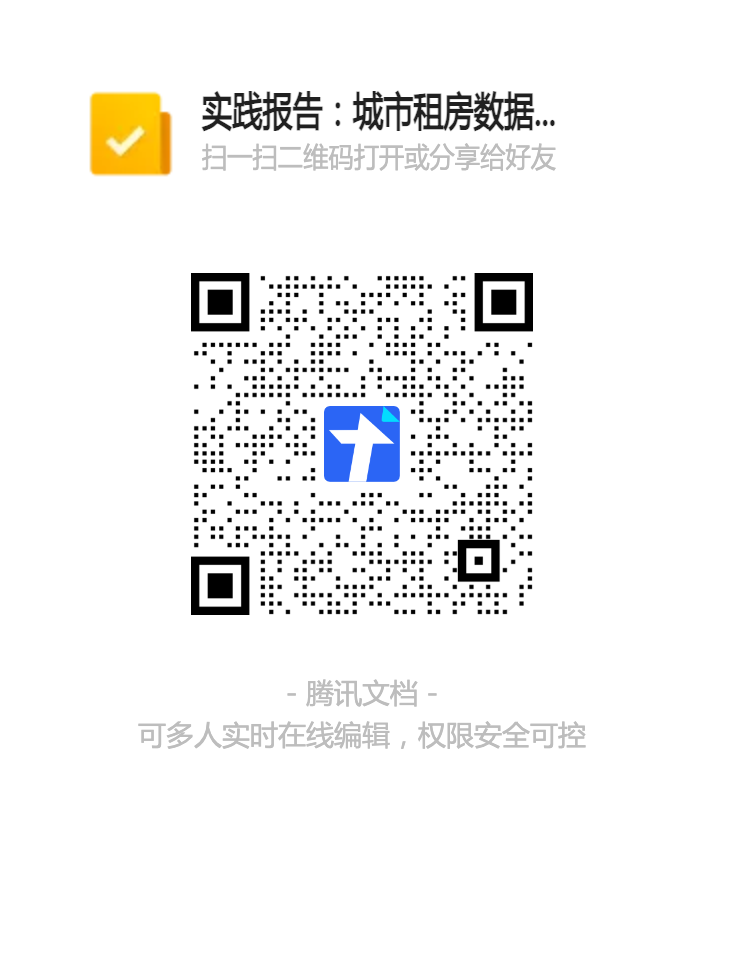
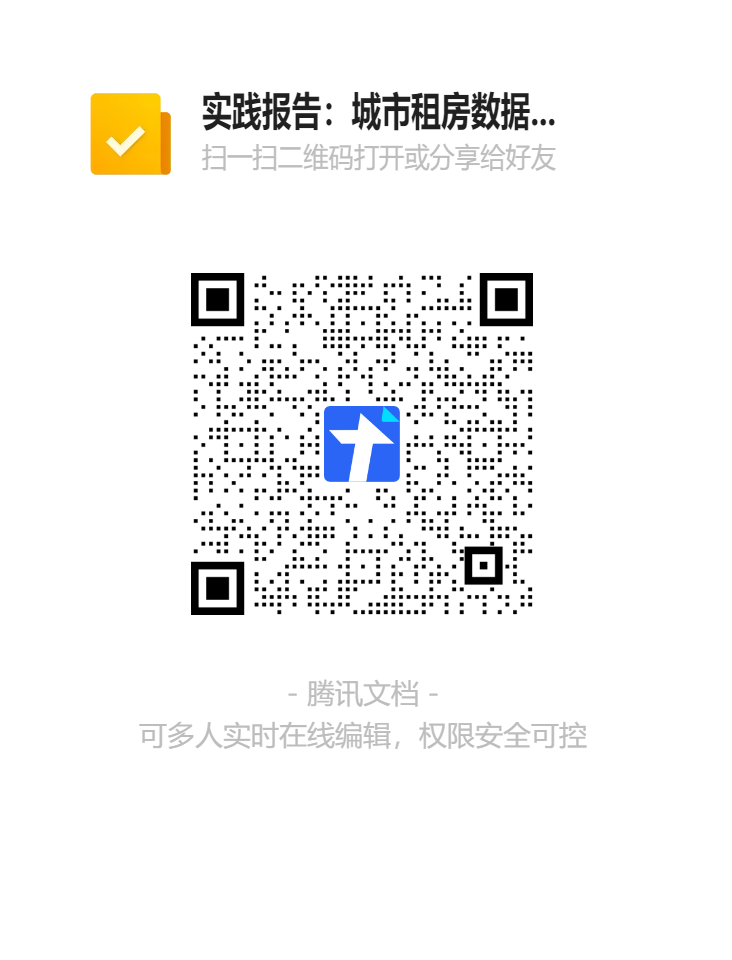
Assignment 2

diff --git a/blog/2024-09-27Problem2.md b/blog/2024-09-27Problem2.md
@@ -9,12 +9,12 @@ tags: [assignments]
 ---
 
 ## 案例实践
-1. 学习文档 [DS-北京租房数据分析](https://docs.qq.com/pdf/DYm9jemVJY05NQ0VN) 的方法与步骤
+1. 学习文档 [DS-北京租房数据分析](https://docs.qq.com/pdf/DYlpkV1hZQ3NxTGpV) 的方法与步骤
 2. 选择国内任一其他城市（非北京），爬取租房数据并可视化分析
-3. 撰写实验报告（[格式要求](https://docs.qq.com/doc/DYlF1RVZjREhFZUlz)）。
+3. 撰写实验报告（[格式要求](https://docs.qq.com/doc/DYnpza1ZBUXFkQndS)）。
 
 ## 提交实验报告（doc或pdf格式）
-- 填写 [在线表格](https://docs.qq.com/form/page/DYmpvSFNNbEJ2YXNy) 
+- 填写 [在线表格](https://docs.qq.com/form/page/DYmJaZ0d2d0FHVUxw) 
 - 或 扫码
 ![Problem2-form](/img/tutorial/Problem2-form.png) 
 

diff --git a/bak/2023Assesment/2023-12-15Assesment.md b/bak/2023Assesment/2023-12-15Assesment.md
@@ -18,4 +18,4 @@ tags: [assignments]
 - 2023年12月10日（23:59:59前）：[模仿游戏与Enigma](/blog/Problem5)
 - 2023年11月27日（12:00:00前）：[英文单词拼写差错与纠错](/blog/Problem4)
 - 2023年10月22日（23:59:59前）：[神经网络游乐场](/blog/Problem3)
-- 2023年10月08日（23:59:59前）：[城市租房数据统计分析与可视化](/blog/Problem2)
+

diff --git a/blog/2024-09-29Assesment.md b/blog/2024-09-29Assesment.md
@@ -14,4 +14,5 @@ tags: [assignments]
 - 延迟提交会有比较重的扣分。
 
 ## 作业(To be determined)
+- 2024年10月11日（23:59:59前）：[城市租房数据统计分析与可视化](/blog/Problem2)
 - 2024年09月13日（23:59:59前）：[为什么鸡蛋不能放在同一个篮子里？](/blog/Problem1)
